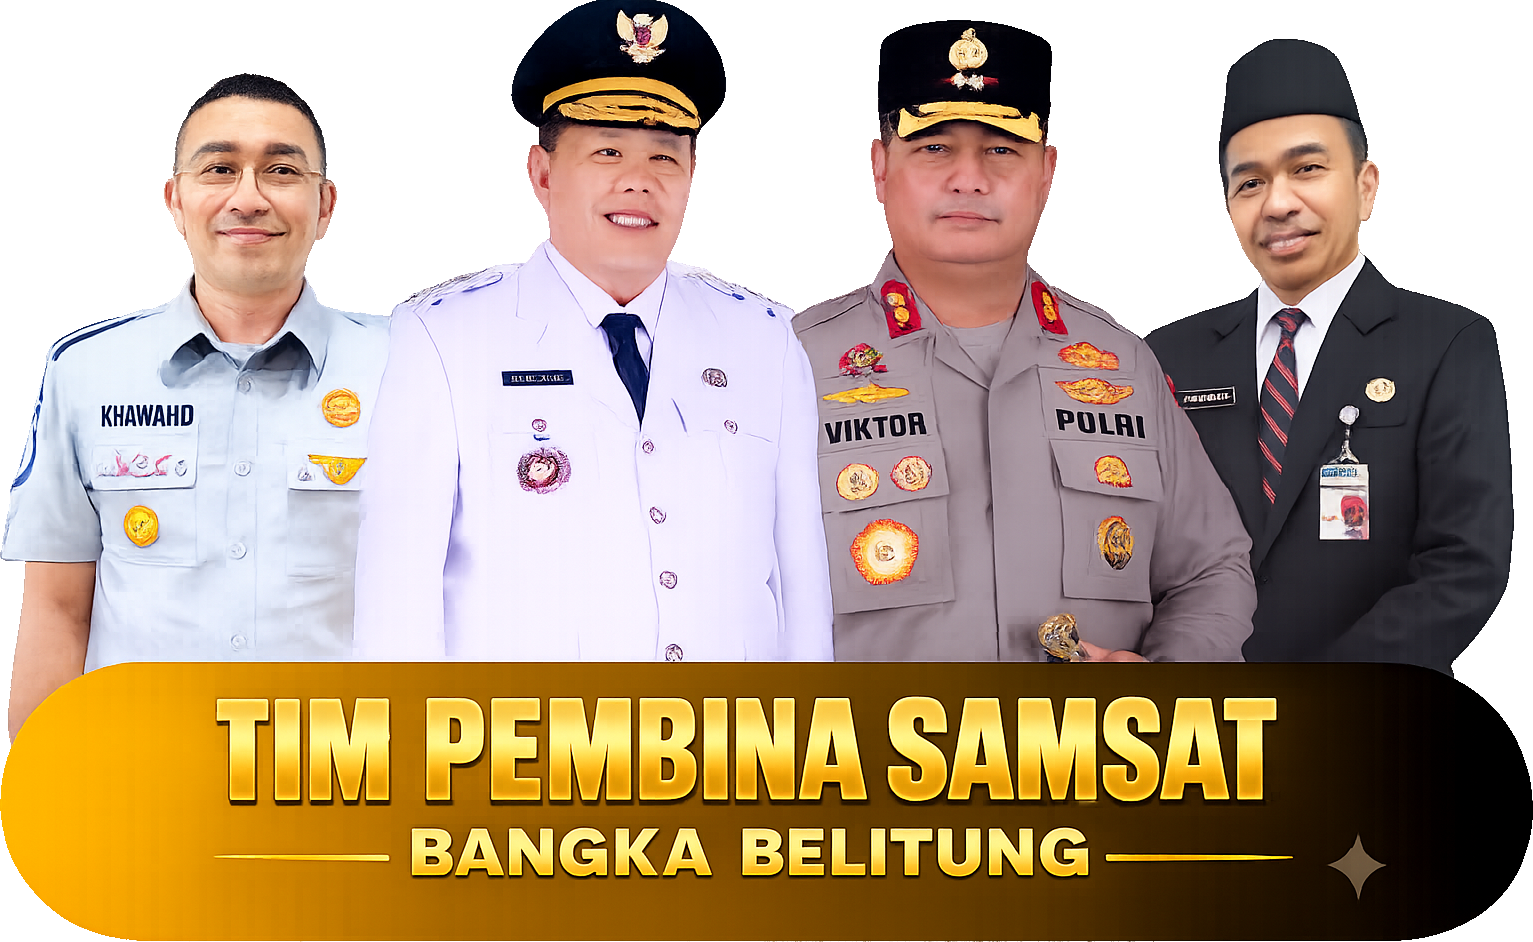
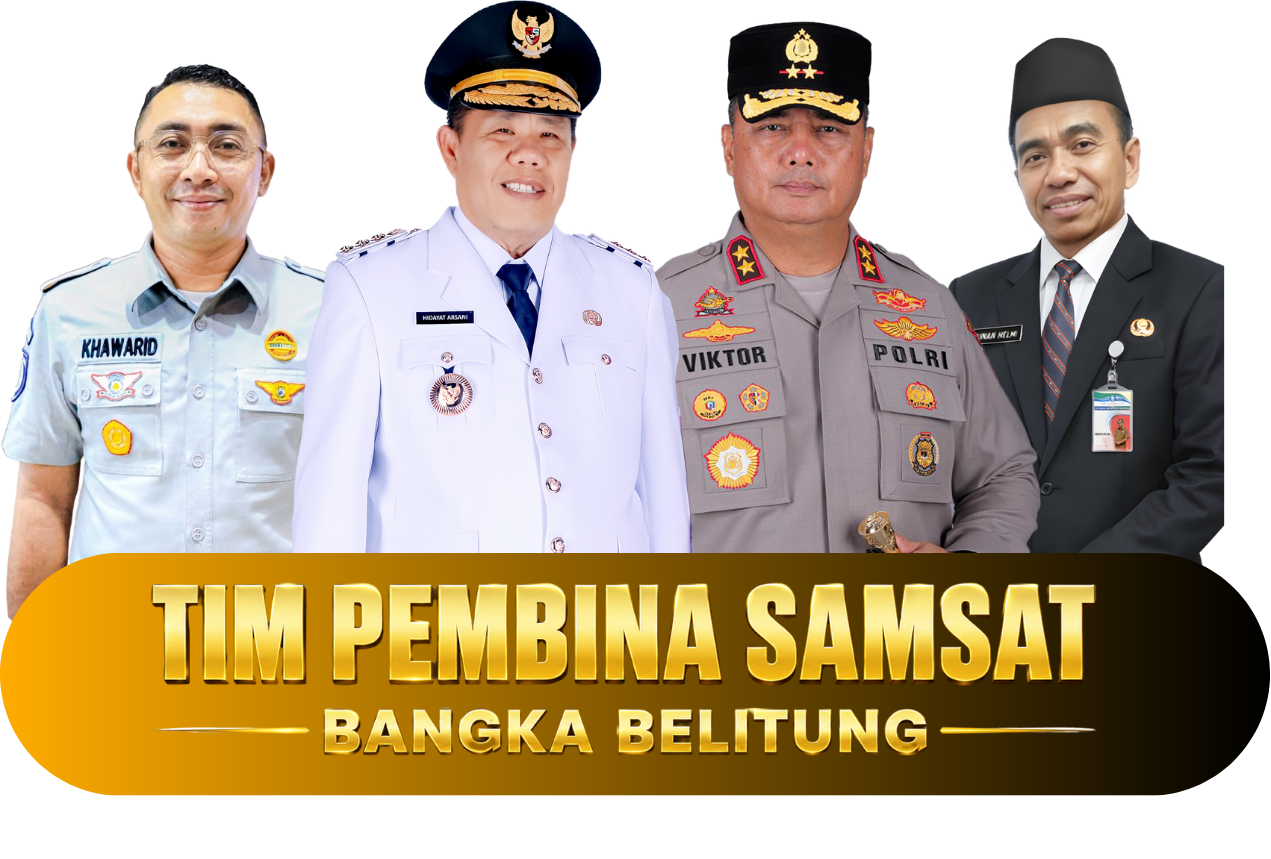
update

diff --git a/src/components/draw/draw-stage.tsx b/src/components/draw/draw-stage.tsx
@@ -152,11 +152,6 @@ export function DrawStage() {
               transition={{ duration: reduceMotion ? 0 : 0.4, delay: reduceMotion ? 0 : 0.15, ease: "easeOut" }}
               className="mt-4 flex flex-col items-center gap-1 sm:mt-6"
             >
-              {lastWinnerPrizeName && (
-                <span className="text-xs font-bold uppercase tracking-[0.25em] text-muted-foreground sm:text-sm">
-                  {lastWinnerPrizeName}
-                </span>
-              )}
               <span className="text-[clamp(1.25rem,4vw,2rem)] font-extrabold text-foreground">
                 {maskFullName(lastWinner.fullName)}
               </span>

diff --git a/src/components/draw/prize-banner.tsx b/src/components/draw/prize-banner.tsx
@@ -13,14 +13,6 @@ export function PrizeBanner() {
       {currentPrize ? (
         <>
           <span className="font-extrabold">{currentPrize.name}</span>
-          {currentPrize.description && (
-            <span className="hidden text-sm font-medium opacity-80 sm:inline">
-              — {currentPrize.description}
-            </span>
-          )}
-          <Badge className="border-2 border-foreground bg-card text-card-foreground">
-            {currentPrize.awardedCount}/{currentPrize.quantity} hadiah
-          </Badge>
         </>
       ) : (
         <span className="text-sm font-medium">Tidak ada pilihan hadiah</span>
